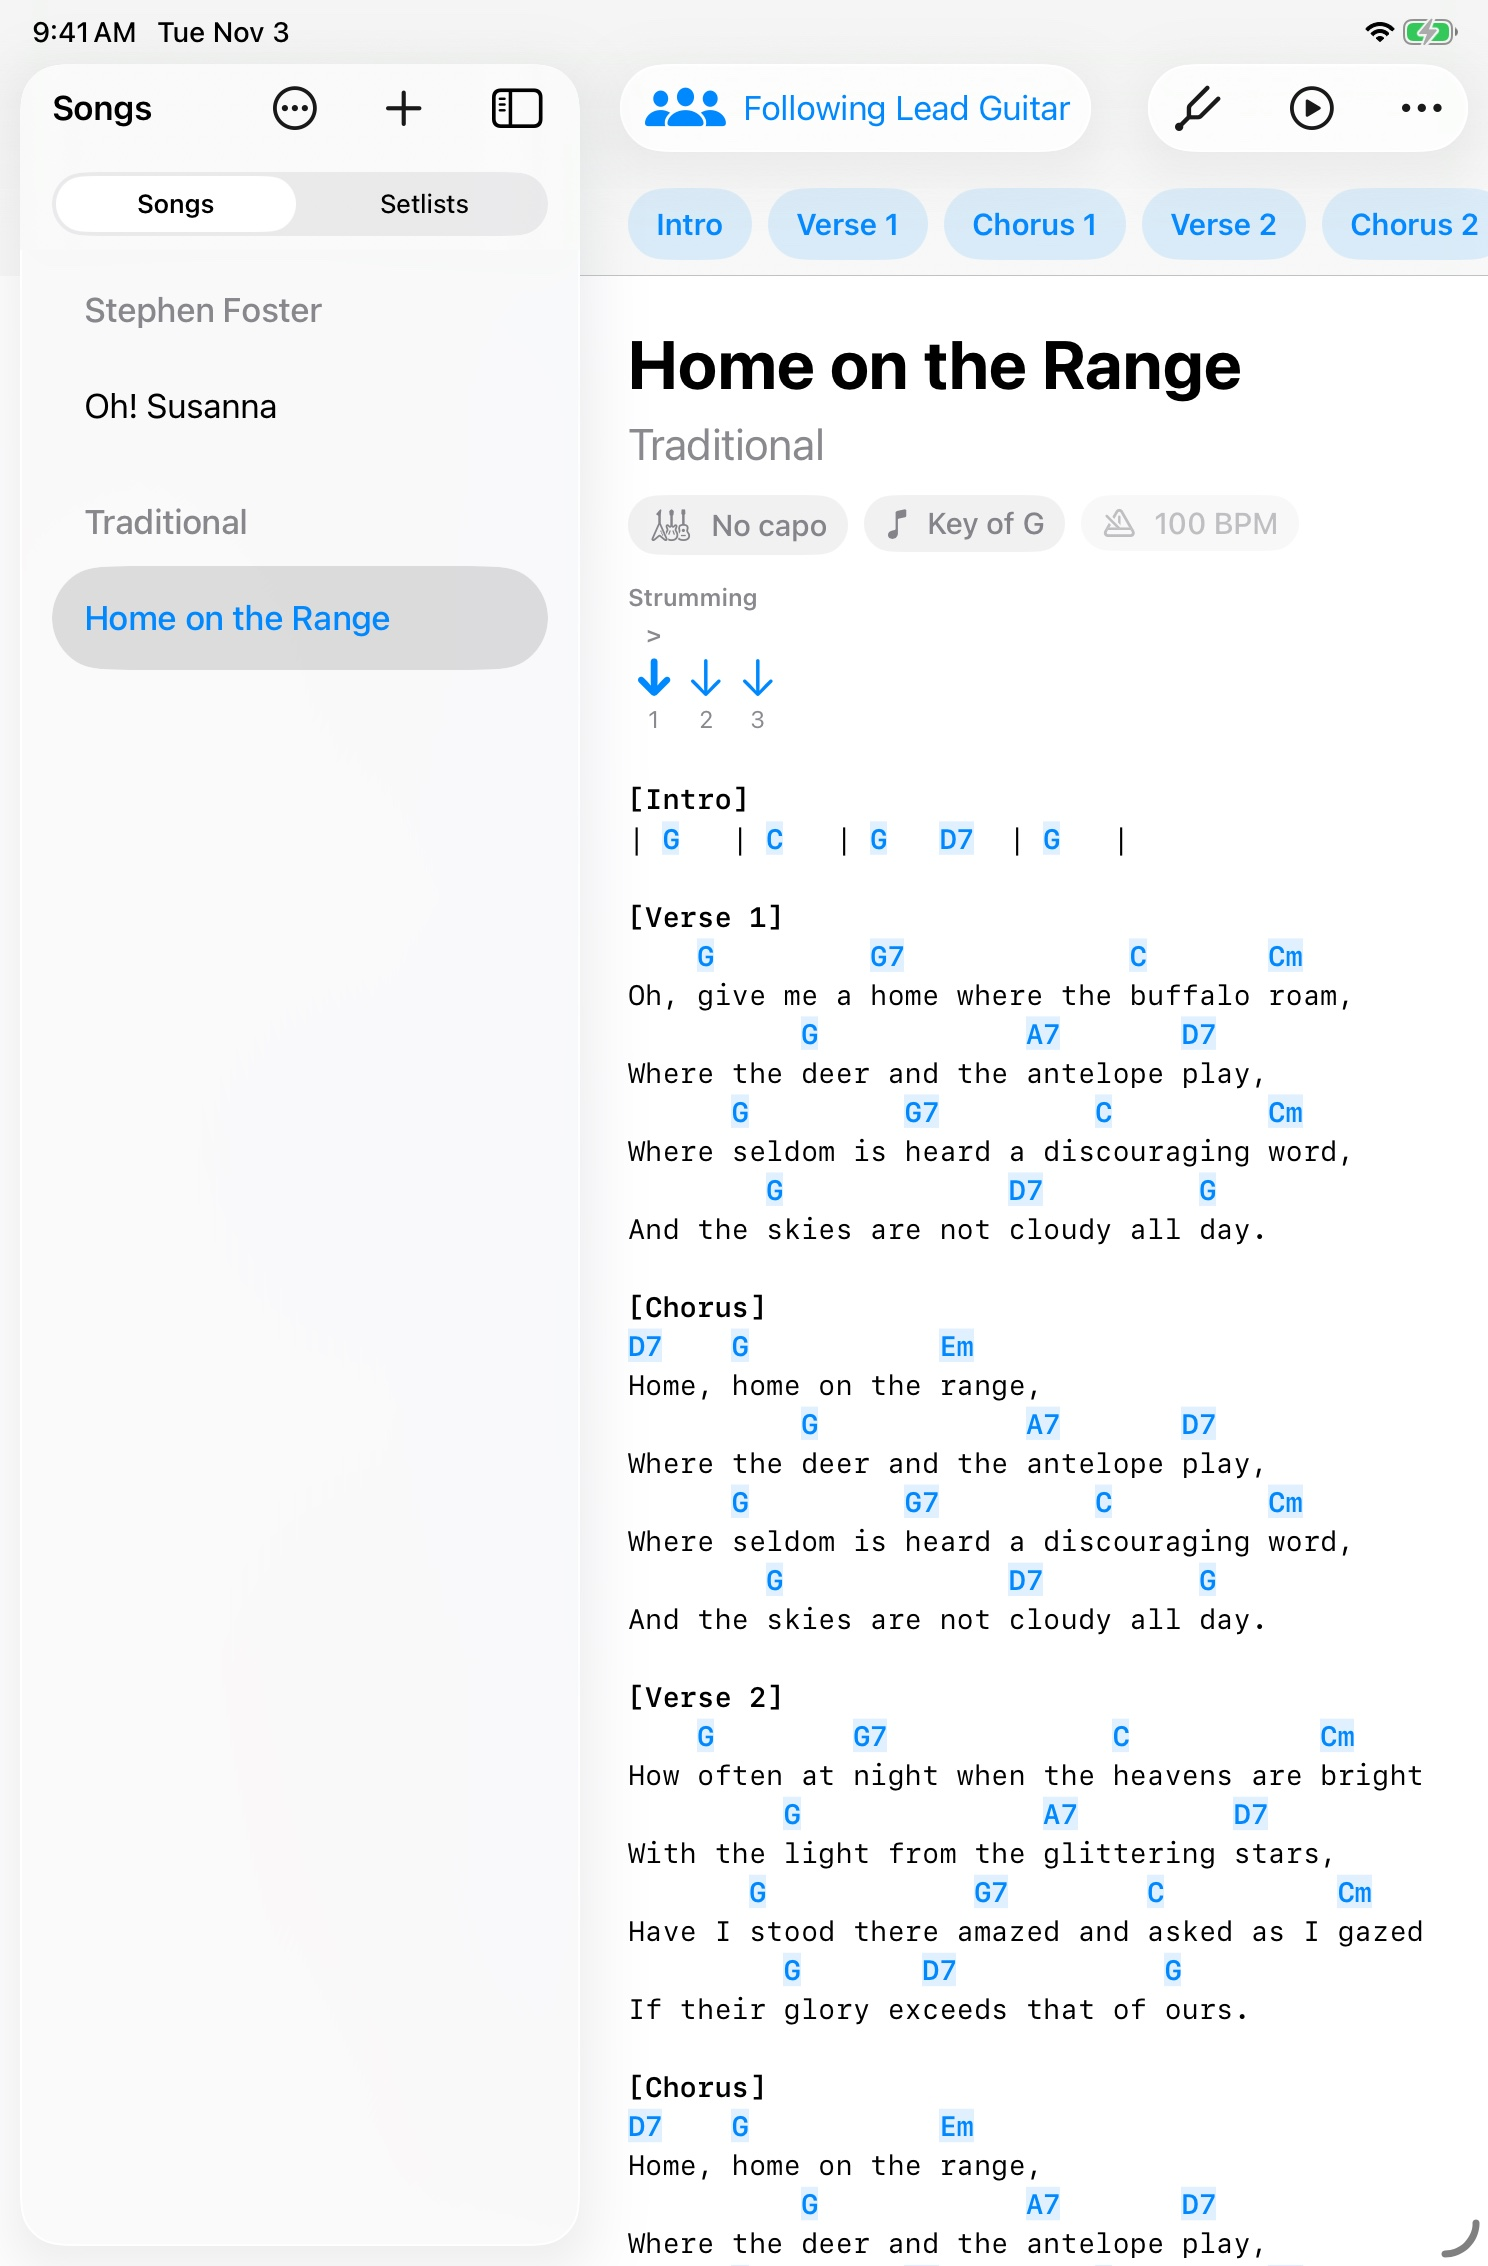
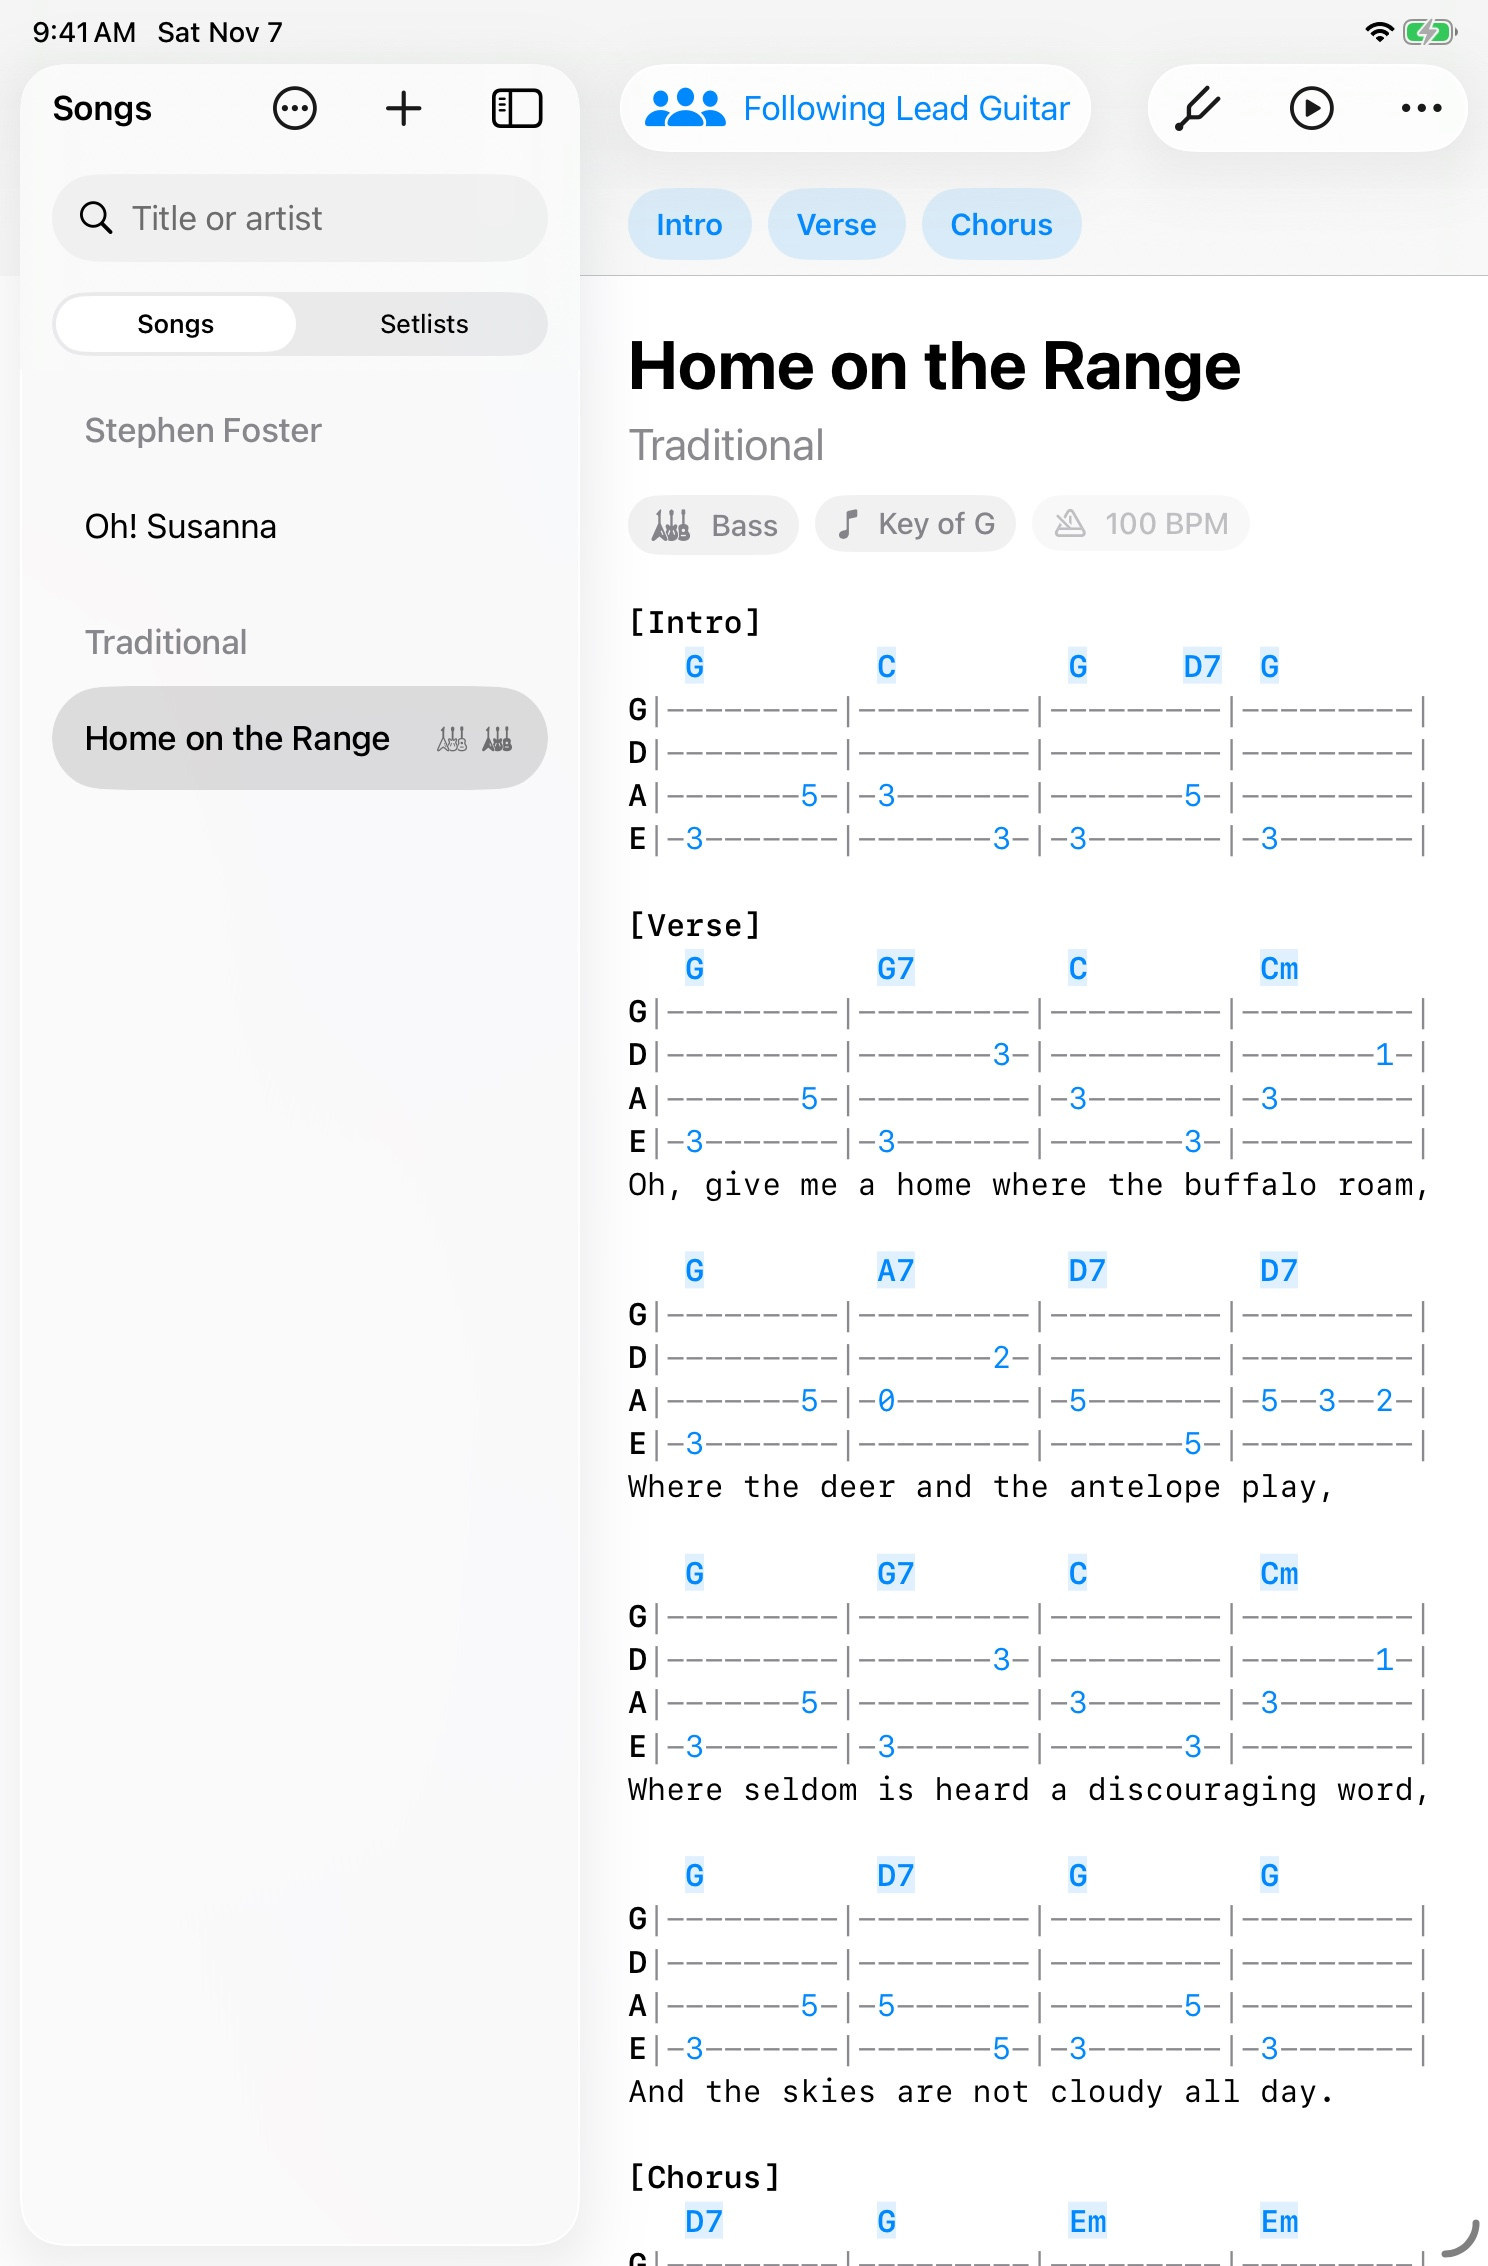
Add tab and song versions by instrument to the site
- Two new features, tab that transposes and a version for every player, making
  twelve cards, which also fills the grid's last row (it ended in a grey gap).
- Band sync: each player reads their own part and gets what they're missing.
- Setlists come back after iPadOS closes the app; diagrams are for guitar sheets;
  the tuner tunes bass and ukulele; PDFs (scans too) open from other apps.
- A FAQ for bass, keys and ukulele players, and the import FAQ updated.
- The band follower screenshot is now a bassist following in their own bass tab;
  its song file is in screenshot-songs/ with the steps in the README.
- The example song file has its Instrument: line.

diff --git a/src/app/page.tsx b/src/app/page.tsx
@@ -7,6 +7,8 @@ import bandLeader from "@/assets/screenshots/band-leader.jpg";
 import setlistLight from "@/assets/screenshots/setlist-light.jpg";
 import songDark from "@/assets/screenshots/song-dark.jpg";
 
+// The grid shows these in two or three columns, so a multiple of six fills every row; any
+// other count leaves a grey gap at the end. The unlock ones go last.
 const features: { title: string; body: string; unlock?: boolean }[] = [
   {
     title: "Turn pages with your foot",
@@ -18,27 +20,35 @@ const features: { title: string; body: string; unlock?: boolean }[] = [
   },
   {
     title: "Setlists for the whole show",
-    body: "Put songs in order and step through the set. With the pedal option on, a press past the end of a song opens the next one.",
-  },
-  {
-    title: "Every chord has a diagram",
-    body: "Show a diagram for every chord in the song, with fingerings. Transpose, or move the capo, and the diagrams follow.",
+    body: "Put songs in order and step through the set. With the pedal option on, a press past the end of a song opens the next one. If iPadOS closes the app in the background, it opens again where you were.",
   },
   {
     title: "Jump to any section",
     body: "Verses, choruses and bridges get a bar above the sheet. Tap one to go straight there; the part you're playing is highlighted.",
   },
   {
+    title: "Every chord has a diagram",
+    body: "Show a diagram for every chord in a guitar sheet, with fingerings. Transpose, or move the capo, and the diagrams follow.",
+  },
+  {
+    title: "Tab that transposes",
+    body: "Guitar and bass tab is recognized anywhere in a sheet. Transpose and the frets move with the chords, every row stays lined up, and a note that would go below the nut moves down a string, as you'd play it.",
+  },
+  {
+    title: "A version for every player",
+    body: "Keep a guitar chord sheet, a bass tab and a keys chart for the same song. Tell StageScroll what you play and it opens your version; switch to another from the badge under the title and you land in the same section.",
+  },
+  {
     title: "Tuner and metronome built in",
-    body: "The tuner knows the song's tuning, standard or E♭, with or without the capo. Tap a song's tempo for a click that flashes on the beat.",
+    body: "The tuner knows the song's tuning, standard or E♭, with or without the capo, and tunes bass and ukulele too. Tap a song's tempo for a click that flashes on the beat.",
   },
   {
     title: "Bring your songs in, take them out",
-    body: "Paste a chord sheet from anywhere, open a PDF or import ChordPro. Share a song or a whole songbook as a PDF, ChordPro or song files.",
+    body: "Paste a chord sheet from anywhere, or open a PDF (scans too) or a ChordPro file, from the app or another app's share sheet. Share a song or a whole songbook as a PDF, ChordPro or song files.",
   },
   {
     title: "Play in sync with your band",
-    body: "One iPad leads and the rest follow its songs, scrolling, transposition and metronome, over Wi-Fi or Bluetooth with no internet needed. Bandmates join with a four-digit code.",
+    body: "One iPad leads and the rest follow its songs, scrolling, transposition and metronome, over Wi-Fi or Bluetooth with no internet needed. Each player reads their own part, kept on the same verse, and gets any song or part they're missing from the leader.",
     unlock: true,
   },
   {
@@ -74,9 +84,9 @@ const screenshots = [
   },
   {
     image: bandFollower,
-    title: "Follow the leader",
-    caption: "A bandmate's iPad opens the same song and scrolls with the leader, even on a smaller screen.",
-    alt: "A follower's iPad mini showing Home on the Range, following Lead Guitar",
+    title: "Follow in your own part",
+    caption: "The bassist's iPad mini follows the leader's chord sheet in a bass tab of the same song, sent over from the leader's iPad.",
+    alt: "A bassist's iPad mini following Lead Guitar, showing the bass tab version of Home on the Range with a Bass badge and Intro, Verse and Chorus sections",
   },
 ];
 
@@ -90,12 +100,16 @@ const faqs = [
     a: `StageScroll is free to download, and everything except the items in the unlock is free to use, with no ads and no time limit. A one-time in-app purchase${site.unlock.price ? ` of ${site.unlock.price}` : ""} adds iCloud sync, band sync, sound pads and importing many songs at once. With Family Sharing, one purchase covers your family.`,
   },
   {
+    q: "I play bass, keys or ukulele. Is it for me?",
+    a: "Yes. Choose what you play when you first open the app, or later in the ⋯ menu under I Play. A song can have a version for guitar, bass, keys, ukulele, vocals or drums, and StageScroll opens yours, or the guitar version if there isn't one for you. Bass tab transposes like guitar tab, and the tuner tunes bass and ukulele strings.",
+  },
+  {
     q: "Does it work on iPhone or Mac?",
     a: "No. StageScroll is made for the iPad's screen, so a whole verse and its chords fit at a size you can read from a music stand.",
   },
   {
     q: "How do I bring in songs from somewhere else?",
-    a: "Copy a chord sheet from a web page, a document or a note and paste it into the app: it works out the title, capo and sections. PDFs with text in them and ChordPro files import too.",
+    a: "Copy a chord sheet from a web page, a document or a note and paste it into the app: it works out the title, capo and sections. PDFs and ChordPro files import too, from the + menu or by choosing StageScroll in another app's share sheet. A PDF that's a scan or a picture of a sheet is read with text recognition, on the iPad.",
   },
   {
     q: "Where are my songs kept?",
@@ -122,9 +136,9 @@ export default function Home() {
               Your chord sheets, <span className="text-spot-bright">ready for the stage.</span>
             </h1>
             <p className="mt-6 max-w-xl text-lg leading-relaxed text-cream-dim text-pretty">
-              StageScroll keeps lyrics and chords big, clear and lined up, then scrolls them for you: by
-              pedal, by auto-scroll or in step with your band. Keep your eyes up and your hands on the
-              guitar.
+              StageScroll keeps lyrics, chords and tab big, clear and lined up, then scrolls them for you:
+              by pedal, by auto-scroll or in step with your band. Keep your eyes up and your hands on your
+              instrument.
             </p>
             <div className="mt-9 flex flex-wrap items-center gap-4">
               {site.appStoreUrl ? (
@@ -219,8 +233,8 @@ export default function Home() {
               Free to play. One purchase for the band.
             </h2>
             <p className="mt-4 max-w-xl text-lg leading-relaxed text-cream-dim">
-              Pedal scrolling, auto-scroll, setlists, chord diagrams, the tuner and the metronome, importing
-              and sharing are all free, for good. A one-time unlock adds the rest. No subscription.
+              Pedal scrolling, auto-scroll, setlists, chord diagrams, tab, a version for every instrument,
+              the tuner and the metronome, importing and sharing are all free, for good. A one-time unlock adds the rest. No subscription.
             </p>
           </div>
           <div className="rounded-2xl border border-spot/40 bg-stage p-7 sm:p-8">
@@ -266,7 +280,7 @@ export default function Home() {
             className="min-w-0 overflow-x-auto rounded-xl border border-stage-line bg-stage p-5 font-mono text-[12px] leading-relaxed text-cream-dim sm:text-[13px]"
           >
             <span className="text-muted">Traditional - Home on the Range.txt</span>
-            {"\n\n"}Title: Home on the Range{"\n"}Artist: Traditional{"\n"}Key: G{"\n"}Tempo: 100{"\n"}---{"\n"}
+            {"\n\n"}Title: Home on the Range{"\n"}Artist: Traditional{"\n"}Instrument: Guitar{"\n"}Key: G{"\n"}Tempo: 100{"\n"}---{"\n"}
             <span className="text-spot-bright">[Verse 1]</span>
             {"\n"}
             <span className="font-bold text-spot-bright">{"    G         G7             C       Cm"}</span>

diff --git a/src/lib/site.ts b/src/lib/site.ts
@@ -3,7 +3,7 @@ export const site = {
   name: "StageScroll",
   tagline: "Chord sheets for the stage",
   description:
-    "StageScroll is an iPad app for guitar chord sheets: hands-free scrolling with a page-turner pedal, auto-scroll, setlists, chord diagrams, band sync and iCloud sync.",
+    "StageScroll is an iPad app for chord sheets and tab: hands-free scrolling with a page-turner pedal, auto-scroll, setlists, chord diagrams, a version of each song for every player, band sync and iCloud sync.",
   url: "https://stagescroll.com",
   contactEmail: "stagescroll@neuralpulselabs.com",
   // The publisher: the developer name on the App Store, and the legal name for the
@@ -17,7 +17,7 @@ export const site = {
     price: "$4.99" as string | null,
     features: [
       { name: "iCloud sync", detail: "Your songs, setlists and sounds on all your iPads, kept the same through iCloud." },
-      { name: "Band sync", detail: "Lead your bandmates' iPads, or follow the leader's." },
+      { name: "Band sync", detail: "Lead your bandmates' iPads, or follow the leader's, each player in their own part." },
       { name: "Sound pads", detail: "Up to four sounds per song, played from the pedal." },
       { name: "Import many songs at once", detail: "Whole folders, zips and StageScroll backups, sounds included." },
     ],

diff --git a/README.md b/README.md
@@ -35,6 +35,12 @@ Debug build, with a library of public-domain songs only, and saved as JPEG (qual
 - Song view: launch with `-appearance dark -SelectSong "Home on the Range" -showsChordDiagrams YES`.
 - Band: launch the leader with `-BandLead YES -bandName "Lead Guitar"` and the followers with
   `-BandJoin 1234 -bandName Bass` (and `Keys`), then open the Band panel from the toolbar badge.
+- Band follower in its own part: launch the leader once (with `-didShowWelcome YES`) so it
+  imports the sample songs, copy `screenshot-songs/Traditional - Home on the Range (Bass).txt`
+  into its Documents (`xcrun simctl get_app_container <udid> com.neuralpulselabs.stagescroll data`),
+  then launch it with `-BandLead YES -bandName "Lead Guitar" -instrument guitar -SelectSong "Home on the Range" -appearance dark`
+  and the iPad mini, freshly installed, with `-BandJoin 1234 -bandName Bass -instrument bass`.
+  The follower gets the bass part from the leader and shows it.
 - `-appearance light` and `-sidebar setlists` give the light setlist shot; open a setlist and a song.
 
 Never use songs from the owner's own library: they're copyrighted.
